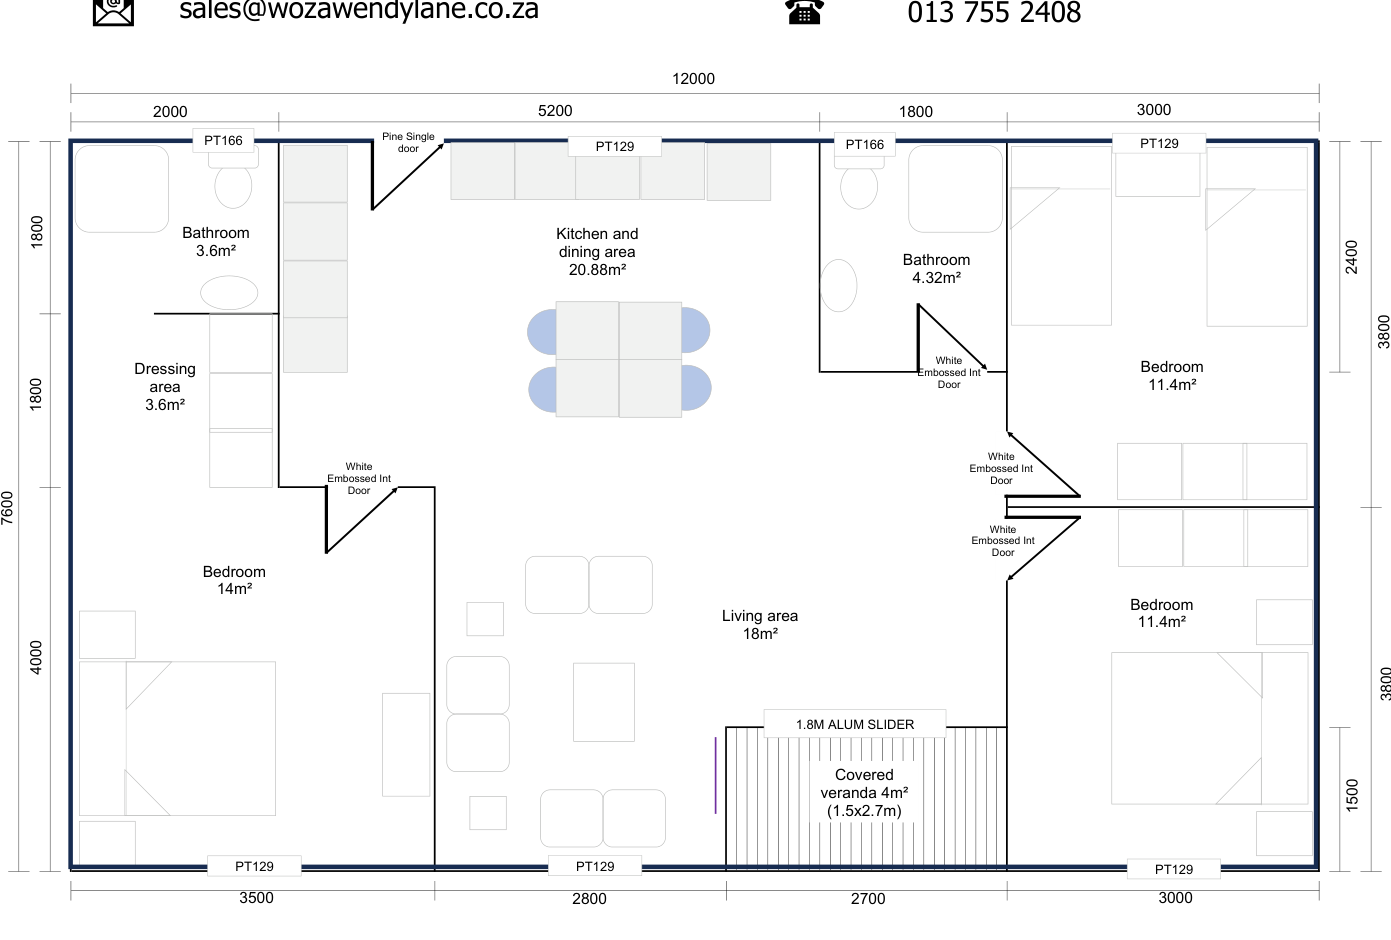
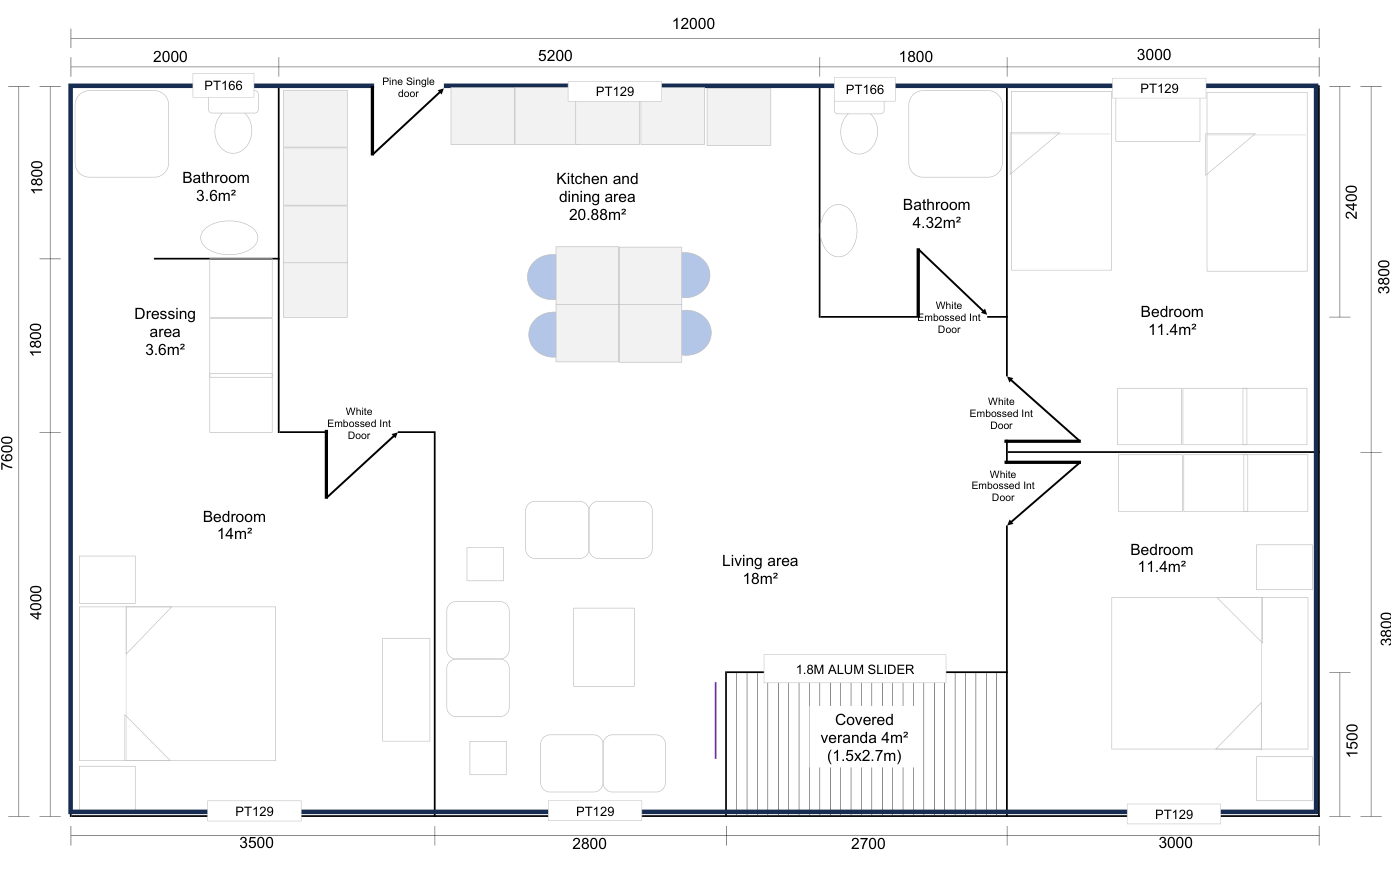
fix(wendy-lane): actually render the Frame Built floor plans
The six Frame Built plans were extracted from the PDF and exported as
FRAME_BUILT_PLANS, but never rendered — the export had zero references, so the
images sat in public/ where nobody could see them.

Folded the plan into FrameBuiltModel (plan/name/rooms) rather than keeping a
parallel slug->path Record, so a plan can no longer be orphaned from its model,
and added a "The layouts" section to /frame-built showing each plan with its room
breakdown and from-price.

The room sizes come off the drawings themselves (kitchen 8m², living 7.5m²,
bedroom 12m², bathroom 4m², veranda 4.5m² …) — detail the old site never published.

Also re-rendered the 7.6x12m plan: the crop started at y=530 and caught the PDF's
contact line (sales@… / 013 755 2408) across the top of the drawing. Now starts
below it at y=545.

verify-pricing.mjs grows two guards for this class of bug: every plan referenced in
the data must exist in public/, and both pages must actually render a plan.
40 checks, all passing.

diff --git a/wendy-lane/src/data/pricing.ts b/wendy-lane/src/data/pricing.ts
@@ -117,32 +117,57 @@ export type FrameBuiltModel = {
   chromadek: number | null;
   /** Nutec cladding with dry walling. */
   nutec: number | null;
+  /** As named on the PDF, e.g. "One Bedroom Chalet". */
+  name: string;
+  /** Floor-plan drawing, rendered from the source PDF. */
+  plan: string;
+  /** Room breakdown printed on the plan. */
+  rooms: string[];
 };
 
 /**
  * Frame-Built.pdf (dated 01/02/2026). Prices include VAT @ 15% and construction;
  * delivery quoted by site. Building only — electrics and plumbing excluded.
- *
- * Every figure read off the rendered PDF pages. `plan` is the floor-plan drawing.
+ * Every figure and room breakdown read off the rendered PDF pages.
  */
 export const FRAME_BUILT: FrameBuiltModel[] = [
-  { slug: "6x6-one-bedroom", size: "6 × 6 m", area: 36, bedrooms: 1, log: 168668, chromadek: 183286, nutec: 209899 },
-  { slug: "6x7-2-one-bedroom", size: "6 × 7.2 m", area: 43.2, bedrooms: 1, log: 201355, chromadek: 219560, nutec: 251601 },
-  { slug: "6x9-two-bedroom", size: "6 × 9 m", area: 54, bedrooms: 2, log: 243870, chromadek: 265525, nutec: 301930 },
-  { slug: "7-6x7-6-two-bedroom", size: "7.6 × 7.6 m", area: 57.76, bedrooms: 2, log: 253873, chromadek: 276698, nutec: 315170 },
-  { slug: "6x12-three-bedroom", size: "6 × 12 m", area: 72, bedrooms: 3, log: 313480, chromadek: 341950, nutec: 388455 },
-  { slug: "7-6x12-three-bedroom", size: "7.6 × 12 m", area: 91.2, bedrooms: 3, log: 386979, chromadek: 422767, nutec: 479037 },
+  {
+    slug: "6x6-one-bedroom", name: "One Bedroom Chalet", size: "6 × 6 m", area: 36, bedrooms: 1,
+    log: 168668, chromadek: 183286, nutec: 209899,
+    plan: "/images/plans/frame-6x6-one-bedroom.png",
+    rooms: ["Kitchen 8m²", "Living 7.5m²", "Bedroom 12m²", "Bathroom 4m²", "Covered veranda 4.5m²"],
+  },
+  {
+    slug: "6x7-2-one-bedroom", name: "One Bedroom Chalet", size: "6 × 7.2 m", area: 43.2, bedrooms: 1,
+    log: 201355, chromadek: 219560, nutec: 251601,
+    plan: "/images/plans/frame-6x7-2-one-bedroom.png",
+    rooms: ["Kitchen 7.2m²", "Living 14.76m²", "Bedroom 12.6m²", "Bathroom 5.28m²", "Covered veranda 5.76m²"],
+  },
+  {
+    slug: "6x9-two-bedroom", name: "Two Bedroom Chalet", size: "6 × 9 m", area: 54, bedrooms: 2,
+    log: 243870, chromadek: 265525, nutec: 301930,
+    plan: "/images/plans/frame-6x9-two-bedroom.png",
+    rooms: ["Kitchen 7.28m²", "Living 17.36m²", "2 × Bedroom 10.2m²", "Bathroom 5.04m²", "Covered veranda 3.92m²"],
+  },
+  {
+    slug: "7-6x7-6-two-bedroom", name: "Two Bedroom Chalet", size: "7.6 × 7.6 m", area: 57.76, bedrooms: 2,
+    log: 253873, chromadek: 276698, nutec: 315170,
+    plan: "/images/plans/frame-7-6x7-6-two-bedroom.png",
+    rooms: ["Kitchen 10.64m²", "Living 12.62m²", "Bedroom 11.4m²", "Bedroom 10.64m²", "Bathroom 4.86m²", "Covered veranda 7.6m²"],
+  },
+  {
+    slug: "6x12-three-bedroom", name: "Three Bedroom Chalet", size: "6 × 12 m", area: 72, bedrooms: 3,
+    log: 313480, chromadek: 341950, nutec: 388455,
+    plan: "/images/plans/frame-6x12-three-bedroom.png",
+    rooms: ["Living 12.62m²", "2 × Bedroom 9m²", "Bedroom 14m²", "Bathroom 4.8m²", "Covered veranda 3m²"],
+  },
+  {
+    slug: "7-6x12-three-bedroom", name: "Three Bedroom Chalet", size: "7.6 × 12 m", area: 91.2, bedrooms: 3,
+    log: 386979, chromadek: 422767, nutec: 479037,
+    plan: "/images/plans/frame-7-6x12-three-bedroom.png",
+    rooms: ["Kitchen & dining 20.88m²", "Living 18m²", "Bedroom 14m²", "2 × Bedroom 11.4m²", "2 × Bathroom", "Dressing area 3.6m²", "Covered veranda 4m²"],
+  },
 ];
-
-/** Frame Built floor plans, rendered from the source PDF. Keyed by model slug. */
-export const FRAME_BUILT_PLANS: Record<string, string> = {
-  "6x6-one-bedroom": "/images/plans/frame-6x6-one-bedroom.png",
-  "6x7-2-one-bedroom": "/images/plans/frame-6x7-2-one-bedroom.png",
-  "6x9-two-bedroom": "/images/plans/frame-6x9-two-bedroom.png",
-  "7-6x7-6-two-bedroom": "/images/plans/frame-7-6x7-6-two-bedroom.png",
-  "6x12-three-bedroom": "/images/plans/frame-6x12-three-bedroom.png",
-  "7-6x12-three-bedroom": "/images/plans/frame-7-6x12-three-bedroom.png",
-};
 
 /** Frame-Built.pdf — standard inclusions, shared across every model. */
 export const FRAME_BUILT_INCLUSIONS: string[] = [

diff --git a/wendy-lane/src/app/frame-built/page.tsx b/wendy-lane/src/app/frame-built/page.tsx
@@ -190,6 +190,70 @@ export default function FrameBuiltPage() {
         </div>
       </section>
 
+      {/* Floor plans */}
+      <section className="bg-white py-20" id="layouts">
+        <div className="max-w-7xl mx-auto px-4 sm:px-6 lg:px-8">
+          <h2 className="font-display text-3xl font-bold text-ink mb-4">The layouts</h2>
+          <p className="text-gray-600 max-w-2xl mb-10">
+            Every chalet is drawn before it is built. These are the actual floor plans — room
+            sizes included — so you know exactly what you are getting before you commit.
+          </p>
+
+          <div className="grid gap-8 lg:grid-cols-2">
+            {FRAME_BUILT.map((model) => {
+              const from = [model.log, model.chromadek, model.nutec].filter(
+                (p): p is number => p !== null
+              );
+              return (
+                <article
+                  key={model.slug}
+                  className="rounded-card border border-gray-200 bg-white overflow-hidden flex flex-col"
+                >
+                  <div className="relative aspect-[4/3] bg-white border-b border-gray-100">
+                    <Image
+                      src={model.plan}
+                      alt={`Floor plan — ${model.size} ${model.area}m² ${model.name}`}
+                      fill
+                      className="object-contain p-4"
+                      sizes="(max-width: 1024px) 100vw, 50vw"
+                    />
+                  </div>
+                  <div className="p-6 flex flex-col flex-1">
+                    <h3 className="font-display text-xl font-semibold text-ink">
+                      {model.size} · {model.area}m² {model.name}
+                    </h3>
+                    <ul className="mt-3 flex flex-wrap gap-2">
+                      {model.rooms.map((room) => (
+                        <li
+                          key={room}
+                          className="rounded-full bg-timber/10 text-timber text-xs font-medium px-3 py-1"
+                        >
+                          {room}
+                        </li>
+                      ))}
+                    </ul>
+                    {from.length > 0 && (
+                      <p className="mt-4 text-sm text-gray-700">
+                        From{" "}
+                        <span className="font-semibold text-timber">
+                          {formatRand(Math.min(...from))}
+                        </span>{" "}
+                        <span className="text-gray-500">(log home, incl. VAT)</span>
+                      </p>
+                    )}
+                  </div>
+                </article>
+              );
+            })}
+          </div>
+
+          <p className="mt-8 text-sm text-gray-500">
+            Furniture, fittings and sanitary ware on the plans are shown for illustration only
+            and are not included. Electrics and plumbing are excluded.
+          </p>
+        </div>
+      </section>
+
       {/* Spec */}
       <section className="bg-white py-16">
         <div className="max-w-4xl mx-auto px-4 sm:px-6 lg:px-8 grid md:grid-cols-2 gap-12">
